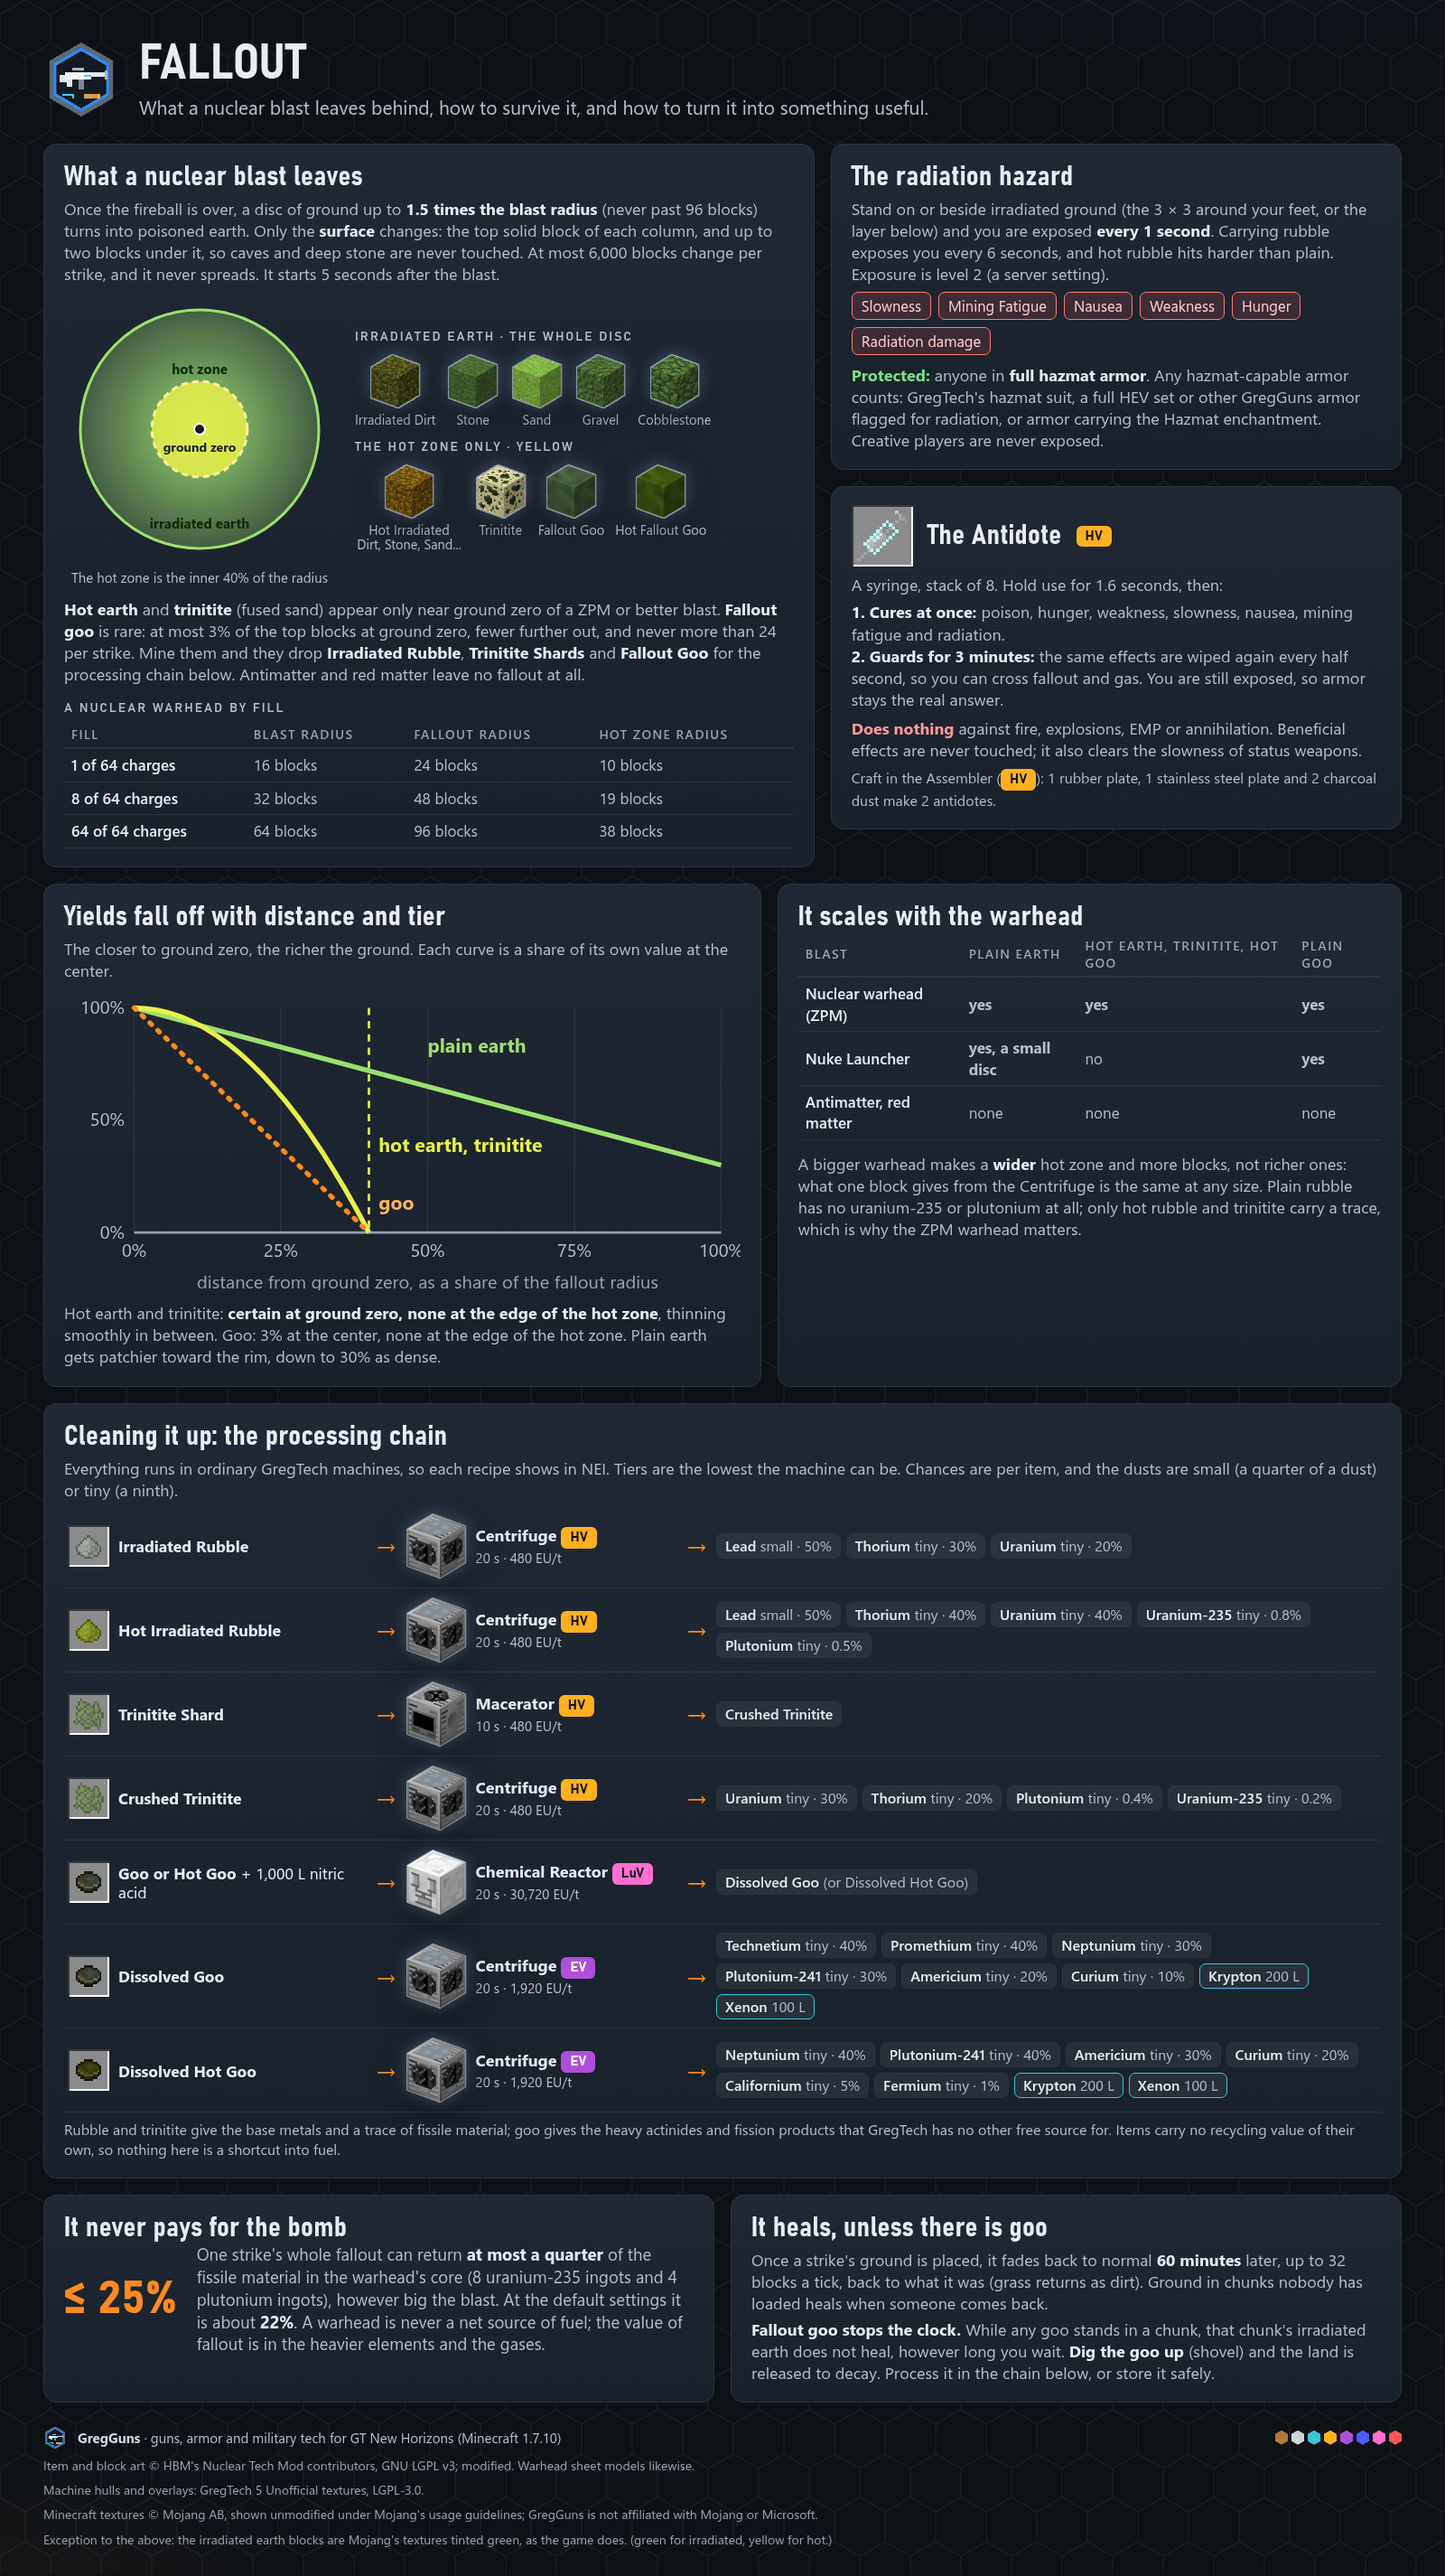
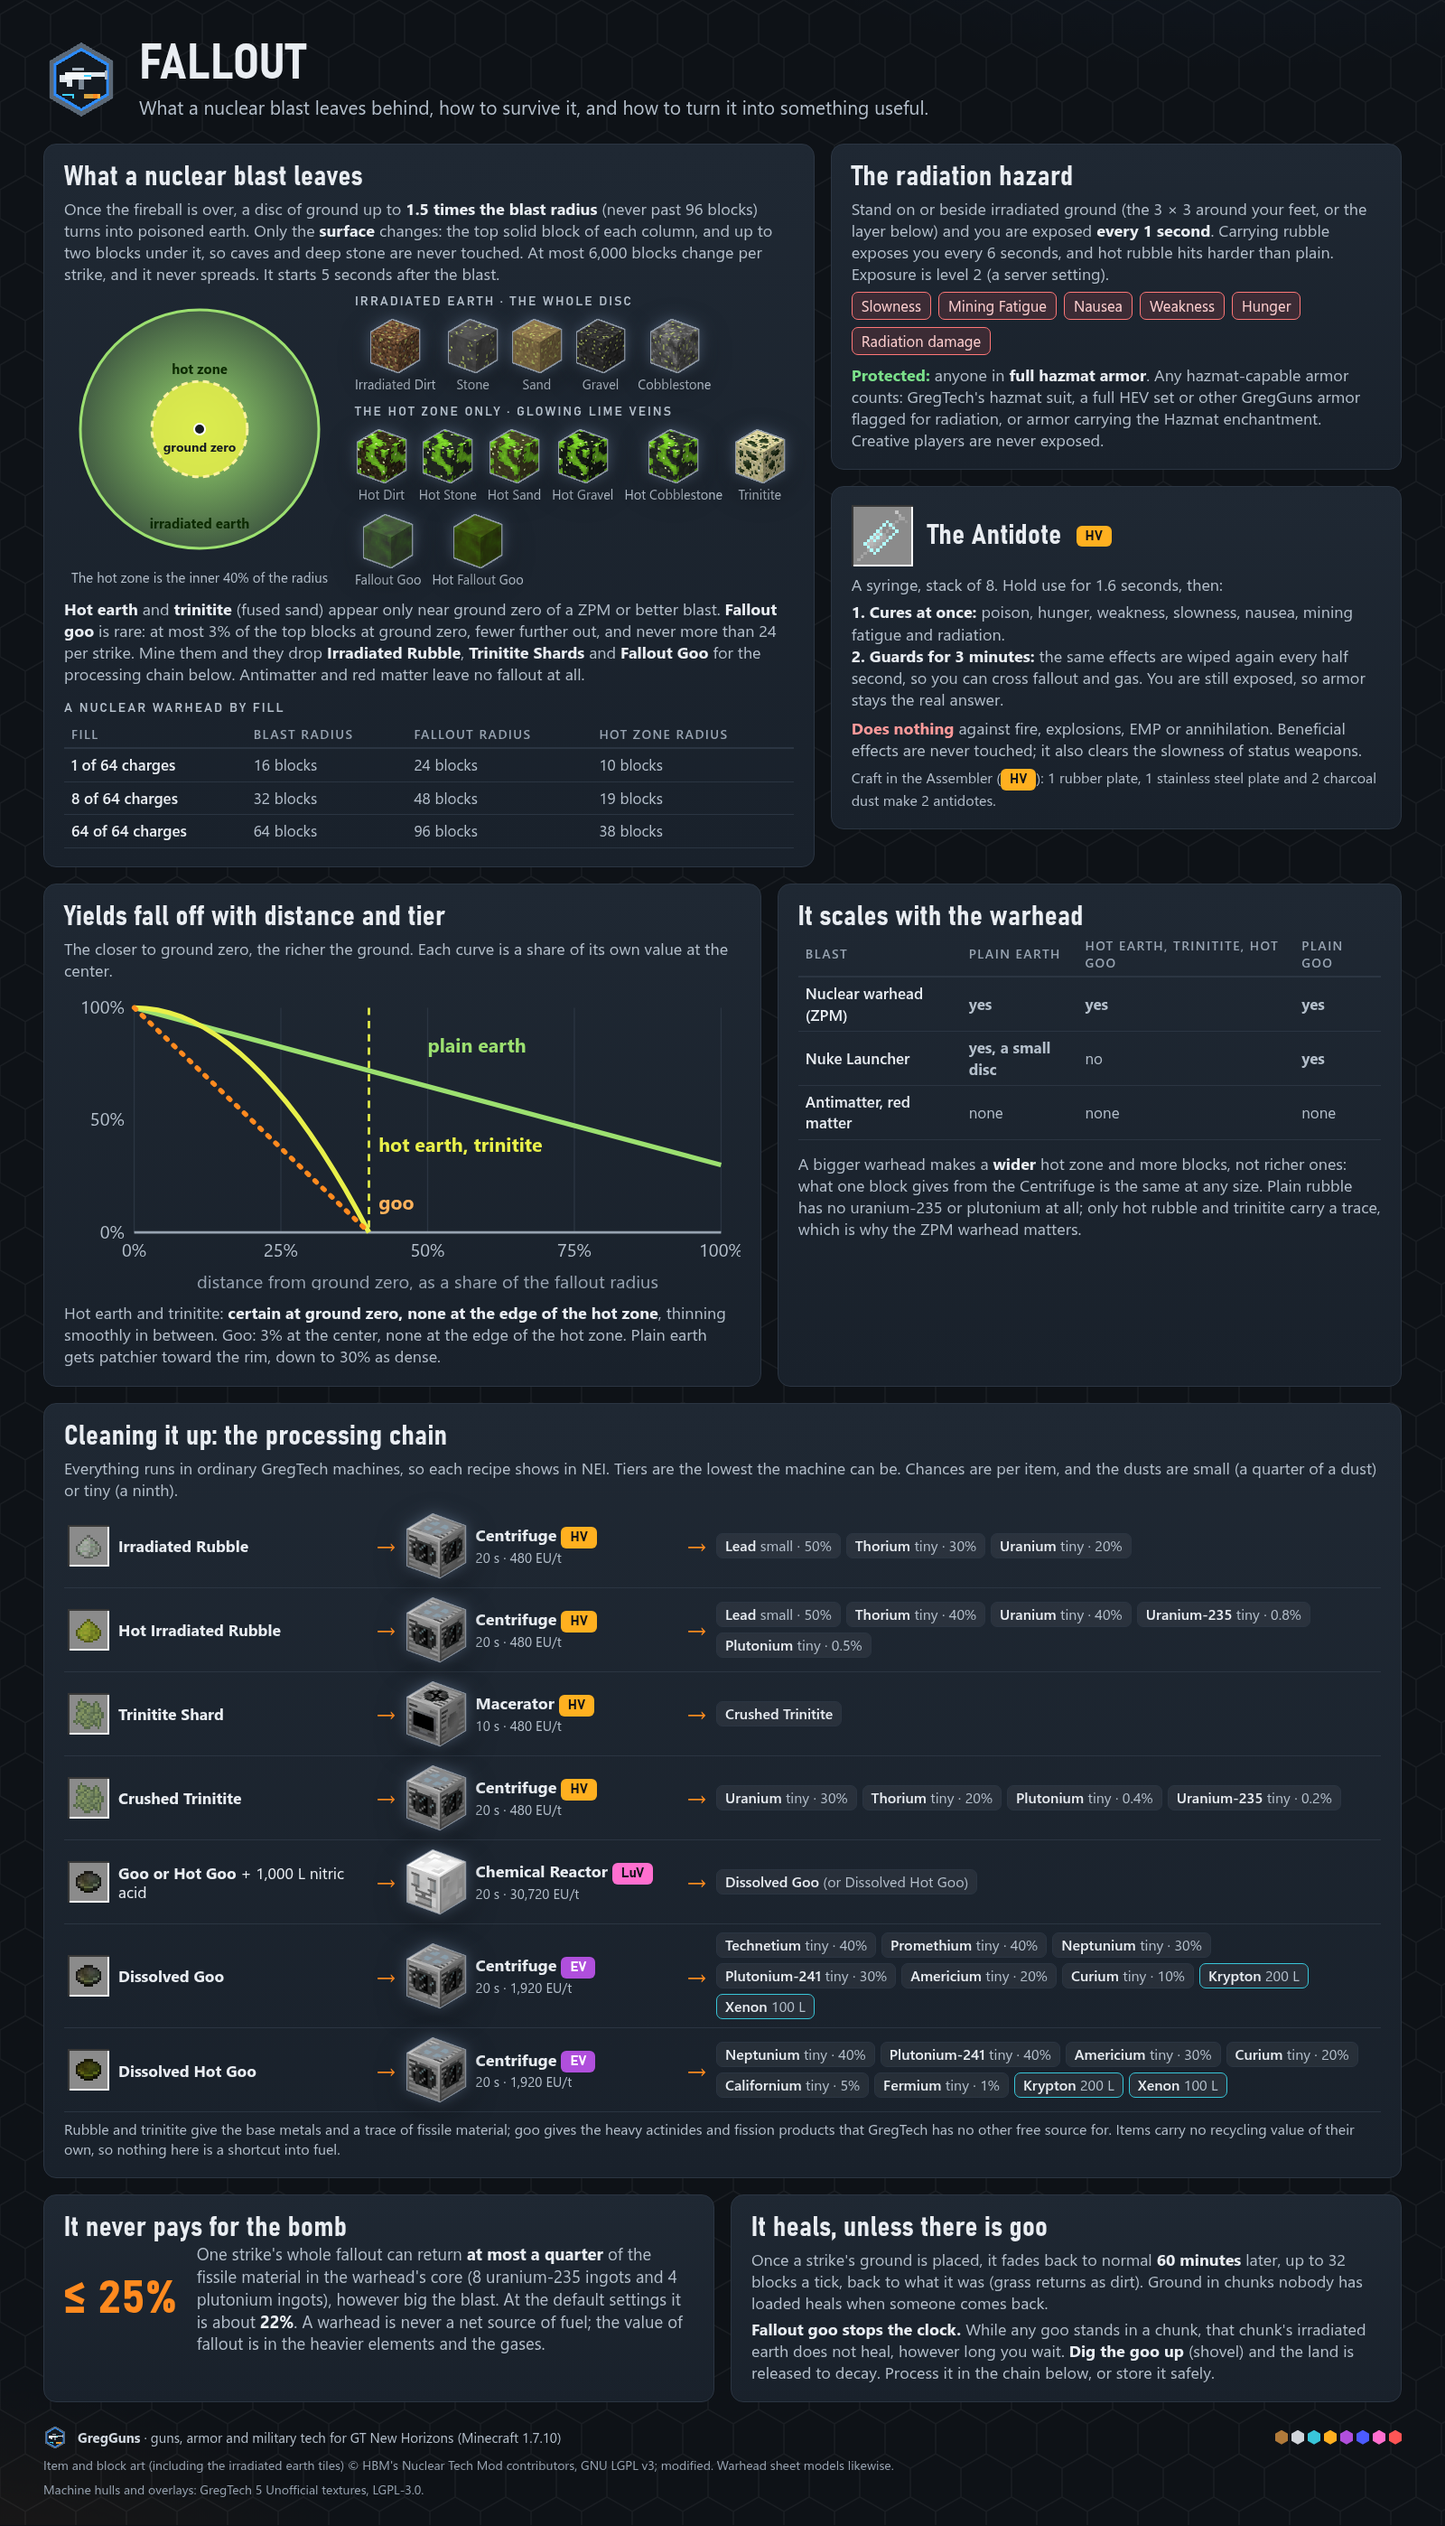
Rebuild the fallout and heavy-warhead guide sheets for the new earth tiles and warhead marks; spotless

diff --git a/tools/asset-gen/infographics/pages_icbm_fallout.py b/tools/asset-gen/infographics/pages_icbm_fallout.py
@@ -4,8 +4,7 @@ quarter-of-the-core bound and decay.
 
 Every number is read from the Java sources at build time (`_const`, `_cfg`, the `FalloutYield` tables, the `FalloutRecipes`
 machine tiers and times), so a changed constant moves the sheet instead of leaving it stale (D50). Warhead radii come
-from the warhead dump (`GREGGUNS_EXPORT_WARHEADS`). Blocks are drawn from Mojang's real dirt, stone, sand, gravel and
-cobblestone textures tinted the way the game tints irradiated earth (D55), and our own NTM-derived trinitite and goo art.
+from the warhead dump (`GREGGUNS_EXPORT_WARHEADS`). Blocks are drawn from the shipped NTM-derived tiles (irradiated earth, cool and hot, trinitite and goo).
 """
 
 from __future__ import annotations
@@ -22,9 +21,8 @@ import kit as K  # noqa: E402
 import pages_icbm as P  # noqa: E402
 import scenes as S  # noqa: E402
 import thirdparty as TP  # noqa: E402
-import vanilla  # noqa: E402
 from kit import chip, esc  # noqa: E402
-from pages import MOJANG_CREDIT, img, page_doc, slot  # noqa: E402
+from pages import img, page_doc, slot  # noqa: E402
 
 JAVA = K.REPO / "src/main/java/com/gregguns"
 NUC = "explosion/nuclear/"
@@ -171,7 +169,8 @@ def _cube(tag: str, tex: K.Path, rgb=None) -> K.Path:
 
 
 def _earth(name: str, hot=False) -> K.Path:
-    return _cube(f"{name}{'-hot' if hot else ''}", vanilla.texture(f"blocks/{name}"), HOT_TINT if hot else TINT)
+    """One irradiated earth block, drawn from its shipped tile (the game's own texture, cool or hot)."""
+    return _cube(f"{name}{'-hot' if hot else ''}", NTM_BLOCKS / f"irradiated_{name}{'_hot' if hot else ''}.png")
 
 
 def _item(name: str, rgb=None, px=64) -> K.Path:
@@ -181,10 +180,11 @@ def _item(name: str, rgb=None, px=64) -> K.Path:
 
 def block_row() -> str:
     cells = [(_earth("dirt"), "Irradiated Dirt"), (_earth("stone"), "Stone"), (_earth("sand"), "Sand"), (_earth("gravel"), "Gravel"),
-             (_earth("cobblestone"), "Cobblestone")]
+             (_earth("cobble"), "Cobblestone")]
     plain = "".join(f'<div class="bk">{img(p, h=64)}<small>{esc(t)}</small></div>' for p, t in cells)
     hot = "".join(f'<div class="bk">{img(p, h=64)}<small>{esc(t)}</small></div>' for p, t in [
-        (_earth("dirt", True), "Hot Irradiated Dirt, Stone, Sand..."),
+        (_earth("dirt", True), "Hot Dirt"), (_earth("stone", True), "Hot Stone"), (_earth("sand", True), "Hot Sand"),
+        (_earth("gravel", True), "Hot Gravel"), (_earth("cobble", True), "Hot Cobblestone"),
         (_cube("trinitite", NTM_BLOCKS / "trinitite.png"), "Trinitite"),
         (_cube("goo", NTM_BLOCKS / "fallout_goo.png"), "Fallout Goo"),
         (_cube("goo-hot", NTM_BLOCKS / "fallout_goo.png", HOT_TINT), "Hot Fallout Goo")])
@@ -291,7 +291,7 @@ def fallout() -> str:
 <div style="display:grid;grid-template-columns:300px 1fr;gap:22px;align-items:center">
 <div style="display:flex;flex-direction:column;align-items:center">{disc(R_FULL, INNER)}<div class="muted" style="font-size:15px;margin-top:4px;text-align:center">The hot zone is the inner {round(INNER * 100)}% of the radius</div></div>
 <div><div class="label" style="margin-bottom:6px">Irradiated earth &middot; the whole disc</div><div style="display:flex;gap:12px;flex-wrap:wrap;margin-bottom:14px">{plain}</div>
-<div class="label" style="margin-bottom:6px">The hot zone only &middot; yellow</div><div style="display:flex;gap:12px;flex-wrap:wrap">{hot}</div></div></div>
+<div class="label" style="margin-bottom:6px">The hot zone only &middot; glowing lime veins</div><div style="display:flex;gap:12px;flex-wrap:wrap">{hot}</div></div></div>
 <div class="pt" style="margin-top:12px"><b>Hot earth</b> and <b>trinitite</b> (fused sand) appear only near ground zero of a ZPM or better blast. <b>Fallout goo</b> is rare: at most {GOO_PEAK * 100:g}% of the top blocks at ground zero, fewer further out, and never more than {MAX_GOO} per strike. Mine them and they drop <b>Irradiated Rubble</b>, <b>Trinitite Shards</b> and <b>Fallout Goo</b> for the processing chain below. Antimatter and red matter leave no fallout at all.</div>
 <div class="label" style="margin:16px 0 4px">A nuclear warhead by fill</div>
 <table class="tbl"><tr><th>Fill</th><th>Blast radius</th><th>Fallout radius</th><th>Hot zone radius</th></tr>{sizes}</table></div>"""
@@ -357,9 +357,8 @@ def fallout() -> str:
 <div style="margin-top:18px">{chain}</div>
 <div class="grid" style="grid-template-columns:1fr 1fr;margin-top:18px">{bound}{decay}</div>"""
     return page_doc("Fallout", "What a nuclear blast leaves behind, how to survive it, and how to turn it into something useful.", body, extra=CSS,
-                    credit=["Item and block art © HBM's Nuclear Tech Mod contributors, GNU LGPL v3; modified. Warhead sheet models likewise.",
-                            "Machine hulls and overlays: GregTech 5 Unofficial textures, LGPL-3.0.", MOJANG_CREDIT,
-                            TP.TINT_CREDIT.replace("grass and leaves are", "the irradiated earth blocks are") + " (green for irradiated, yellow for hot.)"])
+                    credit=["Item and block art (including the irradiated earth tiles) © HBM's Nuclear Tech Mod contributors, GNU LGPL v3; modified. Warhead sheet models likewise.",
+                            "Machine hulls and overlays: GregTech 5 Unofficial textures, LGPL-3.0."])
 
 
 PAGES = {"icbm-fallout": fallout}

diff --git a/src/main/java/com/gregguns/icbm/missile/PacketMissileState.java b/src/main/java/com/gregguns/icbm/missile/PacketMissileState.java
@@ -7,19 +7,21 @@ import net.minecraft.entity.player.EntityPlayer;
 import net.minecraft.network.PacketBuffer;
 import net.minecraft.world.World;
 
+import com.gregguns.icbm.warhead.WarheadBlast;
 import com.gregguns.network.ClientboundPacket;
 import com.gregguns.network.WorldTargets;
-import com.gregguns.icbm.warhead.WarheadBlast;
 import com.gregguns.network.validation.ClientRules;
 
 /**
  * Server to every client tracking a {@link EntityMissile}: its flight phase, warhead casing, warhead blast and fuel,
  * which drive the
- * engine flames and the nose model and skin. Sent on change and repeated about once a second, so a client that starts tracking
+ * engine flames and the nose model and skin. Sent on change and repeated about once a second, so a client that starts
+ * tracking
  * late catches up. It replaces DataWatcher slots, which GregGuns never claims (GGS-01-11).
  *
  * <p>
- * Wire: entity id (int), phase (byte), casing (byte), fuel (int), blast (byte: 0 for none, else the {@link WarheadBlast} ordinal plus one; picks the nose skin), warm-up
+ * Wire: entity id (int), phase (byte), casing (byte), fuel (int), blast (byte: 0 for none, else the
+ * {@link WarheadBlast} ordinal plus one; picks the nose skin), warm-up
  * tick, lead and total (ints, D88).
  * Append-only list position: see
  * {@code GregGunsNetwork}. A bad value or a target that is not a missile is dropped (CORE-40). Side: sent by the
@@ -99,7 +101,11 @@ public final class PacketMissileState extends ClientboundPacket {
     @Override
     protected void handle(World world, EntityPlayer localPlayer) {
         EntityMissile m = (EntityMissile) world.getEntityByID(entityId);
-        m.applyState(FlightPhase.values()[phase], casing, fuel, blast == 0 ? null : WarheadBlast.values()[blast - 1].id());
+        m.applyState(
+            FlightPhase.values()[phase],
+            casing,
+            fuel,
+            blast == 0 ? null : WarheadBlast.values()[blast - 1].id());
         m.applyCountdown(tick, lead, total);
     }
 }

diff --git a/src/main/java/com/gregguns/explosion/nuclear/BlockIrradiatedEarth.java b/src/main/java/com/gregguns/explosion/nuclear/BlockIrradiatedEarth.java
@@ -82,14 +82,7 @@ public final class BlockIrradiatedEarth extends Block implements com.gregguns.ap
             && !world.getBlock(x, y + 1, z)
                 .isOpaqueCube()) {
             // "reddust" takes its color (r, g, b) in the motion arguments: a lime spark rising off the earth.
-            world.spawnParticle(
-                "reddust",
-                x + random.nextDouble(),
-                y + 1.05,
-                z + random.nextDouble(),
-                0.55,
-                1.0,
-                0.1);
+            world.spawnParticle("reddust", x + random.nextDouble(), y + 1.05, z + random.nextDouble(), 0.55, 1.0, 0.1);
         }
     }
 

diff --git a/src/test/java/com/gregguns/icbm/missile/MissileSiteStateTest.java b/src/test/java/com/gregguns/icbm/missile/MissileSiteStateTest.java
@@ -14,7 +14,8 @@ import com.gregguns.icbm.warhead.WarheadBlast;
 import io.netty.buffer.Unpooled;
 
 /**
- * The client state packet carries the T3 casing, the warhead blast and the warm-up clock (D88). The site factors' NBT is
+ * The client state packet carries the T3 casing, the warhead blast and the warm-up clock (D88). The site factors' NBT
+ * is
  * in icbm.silo.tiers.
  */
 class MissileSiteStateTest {
